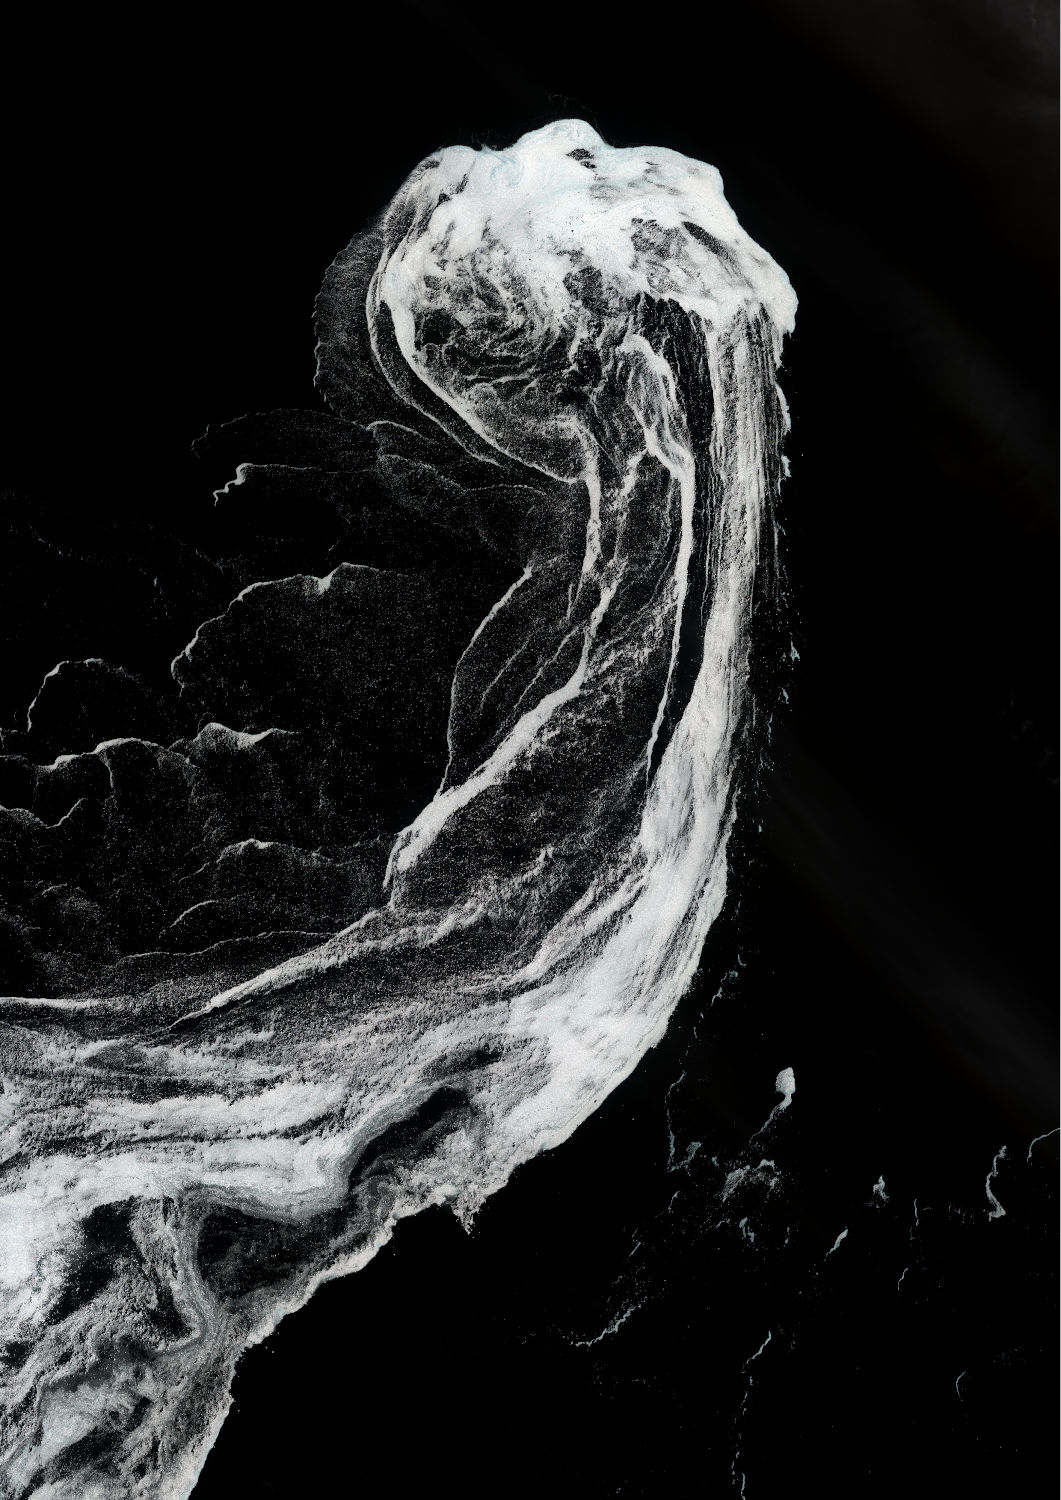
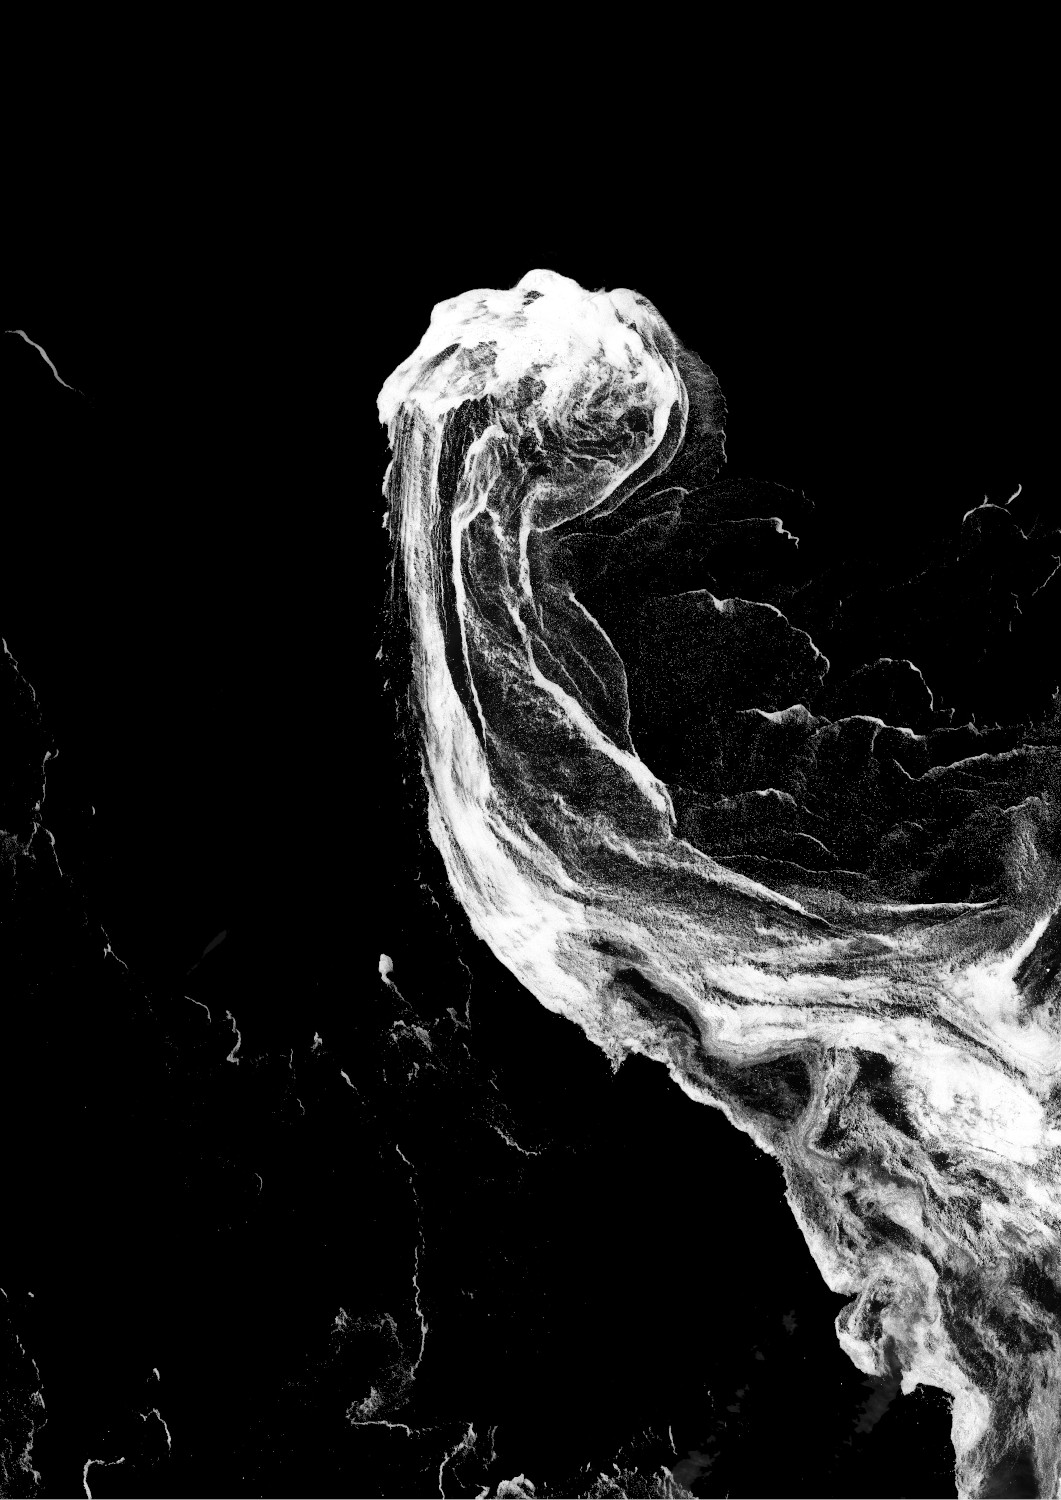
update prints, add deserts

diff --git a/descriptions/pantanal_print_study_desc.js b/descriptions/pantanal_print_study_desc.js
@@ -1,126 +1,31 @@
 pantanal_print_study_desc = {
-    "nr": 23,
-    "col_desc": "A study on screen printing a satellite image. Many thanks to Tommi who did this project with me <3. \<br><br> Have a look through the collection to explore colors and patterns. The image was acquired over the Pantanal wetlands region, Brazil.",
+    "nr": 5,
+    "col_desc": "Screen-printing a satellite image is ultimate reproducability and uniqueness at the same time. A motive can be printed many times and yet, every print has its own little flaw. The technique allows to play with the colors not on a screen but in a live setting with an actual 'canvas', as you'll see in this collection. Starting here with:",
     "desc": [
         {
             "nr": 1,
-            "title": "Comparison",
-            "text": "The original vs. the four-color screen print. \<br> To highlight the structure, the infrared bands of the satellite were used instead of visible light."
+            "title": "Solidarity",
+            "text": "An ice swirl just off the Greenland coast. The original can be found in the 'Sea Ice' collection."
         },
         {
             "nr": 2,
-            "title": "Yellow",
-            "text": "Quick tour of the printing process: First, Yellow is printed."
+            "title": "Pantanal Wetlands",
+            "text": "This is a three-color print (Cyan, Magenta and Yellow) of the Pantanal Wetlands National Park when it was on fire back in 2020 (fire not seen here)."
         },
         {
             "nr": 3,
-            "title": "Yellow + Cyan",
-            "text": "Blue follows, creating green."
+            "title": "Purple",
+            "text": ""
         },
         {
             "nr": 4,
-            "title": "Yellow + Cyan + Magenta",
-            "text": "Red adds depth to the image. The more layers, the more offset is created."
+            "title": "Solidarity",
+            "text": "This motive was printed in black and purple. Prints might be available on demand."
         },
         {
             "nr": 5,
-            "title": "CMYK",
-            "text": "Together with black, the print is complete."
-        },
-        {
-            "nr": 6,
-            "title": "",
-            "text": "Enjoy all other print experiments!"
-        },
-        {
-            "nr": 7,
-            "title": "",
-            "text": ""
-        },
-        {
-            "nr": 8,
-            "title": "",
-            "text": ""
-        },
-        {
-            "nr": 9,
-            "title": "",
-            "text": ""
-        },
-        {
-            "nr": 10,
-            "title": "",
-            "text": ""
-        },
-        {
-            "nr": 11,
-            "title": "",
-            "text": ""
-        },
-        {
-            "nr": 12,
-            "title": "",
-            "text": ""
-        },
-        {
-            "nr": 13,
-            "title": "",
-            "text": ""
-        },
-        {
-            "nr": 14,
-            "title": "",
-            "text": ""
-        },
-        {
-            "nr": 15,
-            "title": "",
-            "text": ""
-        },
-        {
-            "nr": 16,
-            "title": "",
-            "text": ""
-        },
-        {
-            "nr": 17,
-            "title": "",
-            "text": ""
-        },
-        {
-            "nr": 18,
-            "title": "",
-            "text": ""
-        },
-        {
-            "nr": 19,
-            "title": "",
-            "text": ""
-        },
-        {
-            "nr": 20,
-            "title": "",
-            "text": ""
-        },
-        {
-            "nr": 21,
-            "title": "",
-            "text": ""
-        },
-        {
-            "nr": 22,
-            "title": "",
-            "text": ""
-        },
-        {
-            "nr": 23,
-            "title": "",
-            "text": ""
-        },
-        {
-            "nr": 24,
-            "title": "",
-            "text": ""
+            "title": "Comparison",
+            "text": "The original satellite image vs. the four-color screen print."
         }
     ]
 }

diff --git a/index.html b/index.html
@@ -9,8 +9,8 @@
         crossorigin="anonymous"></script>
   
         <script src="descriptions/iceland_desc.js" type="text/javascript"></script>
-        <script src="descriptions/pantanal_desc.js" type="text/javascript"></script>
         <script src="descriptions/ice1_desc.js" type="text/javascript"></script>
+        <script src="descriptions/deserts_desc.js" type="text/javascript"></script>
         <script src="descriptions/pantanal_print_study_desc.js" type="text/javascript"></script>
 
         <!-- Required meta tags -->
@@ -58,10 +58,12 @@
                         <a href="about.html">About</a>
                         
                         <a href="#" onclick="setCollection('Iceland', iceland_desc, iceland_desc.nr)">Iceland</a>
-                        
-                        <a href="#" onclick="setCollection('Pantanal Print Study', pantanal_print_study_desc, pantanal_print_study_desc.nr)">Pantanal_Print_Study</a>
-                        
+                                                
                         <a href="#" onclick="setCollection('Sea Ice', ice1_desc, ice1_desc.nr)">Sea_Ice</a>
+
+                        <a href="#" onclick="setCollection('Deserts', deserts_desc, deserts_desc.nr)">Deserts</a>
+
+                        <a href="#" onclick="setCollection('Screen Prints', pantanal_print_study_desc, pantanal_print_study_desc.nr)">Screen_Prints</a>
                     </p>
                 </div>
 

diff --git a/about.html b/about.html
@@ -9,7 +9,9 @@
         crossorigin="anonymous"></script>
   
         <script src="descriptions/iceland_desc.js" type="text/javascript"></script>
-        <script src="descriptions/pantanal_desc.js" type="text/javascript"></script>
+        <script src="descriptions/ice1_desc.js" type="text/javascript"></script>
+        <script src="descriptions/deserts_desc.js" type="text/javascript"></script>
+        <script src="descriptions/pantanal_print_study_desc.js" type="text/javascript"></script>
 
         <script src="slides.js"></script>
 
@@ -59,9 +61,11 @@
                         
                         <a href="index.html" onclick="setCollection('Iceland', iceland_desc, iceland_desc.nr)">Iceland</a>
                         
-                        <a href="index.html" onclick="setCollection('Pantanal Print Study', pantanal_print_study_desc, pantanal_print_study_desc.nr)">Pantanal_Print_Study</a>
-                        
                         <a href="index.html" onclick="setCollection('Sea Ice', ice1_desc, ice1_desc.nr)">Sea_Ice</a>
+
+                        <a href="index.html" onclick="setCollection('Deserts', deserts_desc, deserts_desc.nr)">Deserts</a>
+
+                        <a href="index.html" onclick="setCollection('Screen Prints', pantanal_print_study_desc, pantanal_print_study_desc.nr)">Screen_Prints</a>
                     </p>
                 </div>
             </div>

diff --git a/descriptions/deserts_desc.js b/descriptions/deserts_desc.js
@@ -1,0 +1,16 @@
+deserts_desc = {
+    "nr": 2,
+    "col_desc": "Ongoing project: Deserts of the world.",
+    "desc": [
+        {
+            "nr": 1,
+            "title": "Kalahari, Namibia",
+            "text": ""
+        },
+        {
+            "nr": 2,
+            "title": "Kalahari, Namibia",
+            "text": ""
+        }
+    ]
+}

diff --git a/descriptions/ice1_desc.js b/descriptions/ice1_desc.js
@@ -18,8 +18,8 @@ ice1_desc = {
         },
         {
             "nr": 4,
-            "title": "",
-            "text": ""
+            "title": "Solidarity",
+            "text": "An ice swirl near Greenland. Have look at the Screen Printing collection for a printed version!"
         }
     ]
 }

diff --git a/style.css b/style.css
@@ -95,13 +95,13 @@ p {
 
 /* unvisited link */
 a:link {
-    color: rgb(68, 68, 68);
+    color: rgb(0, 0, 0);
   }
 a:visited {
-    color: rgb(68,68,68);
+    color: rgb(1, 11, 64);
   }
 a:hover {
-    color: hotpink;
+    color: rgb(174, 170, 96);
   }
 a:active {
     color: blue;
